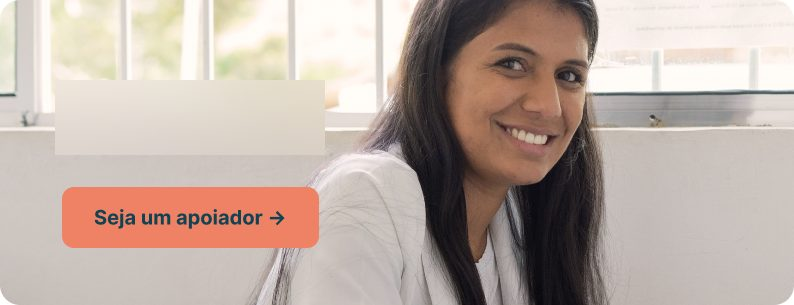
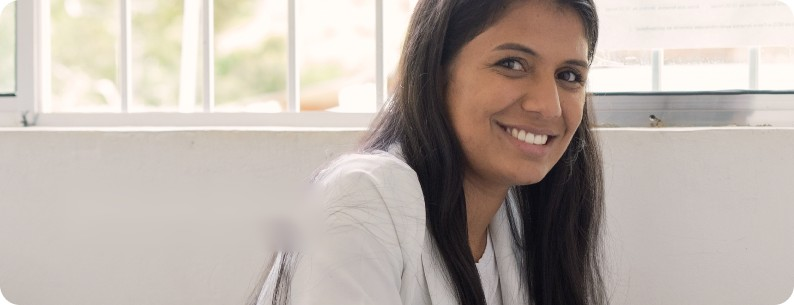
Ajustes pós-revisão da Rapha: hero, bloco Saúde Mental, CTAs, mobile
Claude-Session: https://claude.ai/code/session_01LtBMVg7AgLaCsjzrAb95ic

Changed region(s): [[0.0605, 0.5902, 0.4232, 0.8262], [0.0605, 0.2656, 0.4232, 0.3836], [0.0605, 0.4131, 0.4232, 0.4721]]

diff --git a/assets/css/site.css b/assets/css/site.css
@@ -24,7 +24,7 @@
 *{box-sizing:border-box;min-width:0}
 html{scroll-behavior:smooth;scroll-padding-top:110px}
 body{margin:0;background:#fff;color:var(--ink);font:18px/1.6 var(--font);overflow-x:clip;-webkit-font-smoothing:antialiased}
-img{max-width:100%;display:block}
+img{max-width:100%;height:auto;display:block}
 a{color:inherit}
 h1,h2,h3{font-weight:400;letter-spacing:-.01em;margin:0 0 .55em;text-wrap:balance;line-height:1.08}
 h1{font-size:clamp(40px,4.6vw,76px)}
@@ -361,3 +361,47 @@ video.anim{display:block;width:100%;height:auto}
 .pessoa .tag{position:relative;left:auto;right:auto;bottom:auto;margin:-40px 16px 16px}
 .logo-grid img{border:1px solid #e3ecf0}
 .qr .box:has(img){border:0}.qr .box img{width:100%;height:auto;image-rendering:pixelated}
+
+/* hero visual (estático, a partir do Figma) */
+.hero-visual{width:100%;height:auto;animation:heroIn .9s ease-out both}
+@keyframes heroIn{from{opacity:0;transform:translateY(16px)}to{opacity:1;transform:none}}
+@media (prefers-reduced-motion:reduce){.hero-visual{animation:none}}
+
+/* bloco Saúde Mental da home: foto sem distorção, card alinhado ao Figma */
+.btn-branco{background:#fff;color:var(--azul-dark)}
+.sm-home{align-items:start}
+.sm-home .photo img{height:auto;display:block}
+.sm-home .photo .qcard{left:11.7%;right:8.8%;top:58%;bottom:8.1%;justify-content:center}
+.sm-home .txt{align-self:stretch}
+.qcard .who img{width:clamp(48px,4.4vw,84px);height:auto;border-radius:10px;flex:none}
+.qcard q{text-align:left}
+@media (max-width:1180px){
+  .sm-home .photo .qcard{position:static;margin:-48px 6% 32px;box-shadow:0 8px 24px rgba(17,67,85,.12)}
+  .sm-home .photo{background:var(--azul-dark)}
+}
+
+/* CTA com foto: botão HTML na mesma posição do Figma (foto sem botão embutido) */
+.cta-photo{container-type:inline-size}
+.cta-photo .btn,.cta-photo .btn{left:7.8cqw;top:61.6%;bottom:auto;height:20%;min-height:0;padding:0 4cqw;font-size:clamp(13px,2.3cqw,18px);border-radius:1.2cqw;white-space:nowrap}
+
+/* linha do tempo: abaixo de 1180px vira lista vertical (ignora a coluna fixa do desktop) */
+@media(max-width:1180px){
+  .timeline{grid-template-columns:minmax(0,1fr);margin-top:48px}
+  .timeline .tl{grid-column:1!important;grid-row:auto!important;padding:0 0 32px 40px}
+  .timeline::before{left:7px;right:auto;top:0;bottom:0;width:3px;height:auto}
+  .tl::after{display:none}.tl i{left:1px;top:14px;bottom:auto;transform:none}
+  .tl b{font-size:clamp(36px,8vw,56px);margin-bottom:10px}
+}
+@media(max-width:1180px){.case-grid{grid-template-columns:repeat(2,minmax(0,1fr))!important}}
+@media(max-width:560px){.case-grid{grid-template-columns:minmax(0,1fr)!important}}
+@media(max-width:1180px){
+  .sm-home .photo img{aspect-ratio:1057/548;object-fit:cover;object-position:top;height:auto}
+  .sm-home .photo .qcard{margin-top:-32px}
+}
+@media(max-width:560px){
+  .conselho-grid,.pessoas{grid-template-columns:minmax(0,1fr)}
+  .conselho-grid .pessoa img{max-height:420px;width:100%;object-fit:cover;object-position:top}
+}
+.sm-home .photo .qcard{left:10.8%;right:8%;top:56.6%;bottom:6.6%;z-index:1}
+@media(max-width:1180px){.sm-home .photo .qcard{position:relative;left:auto;right:auto;top:auto;bottom:auto}}
+.qcard .who img{flex:0 0 clamp(52px,4.4vw,84px);width:clamp(52px,4.4vw,84px);height:clamp(52px,4.4vw,84px);object-fit:cover}

diff --git a/index.html b/index.html
@@ -36,7 +36,7 @@
       <div class="stat"><b>4x</b><span>mais chances de realizar exames preventivos</span></div>
     </div>
   </div>
-  <video class="anim" autoplay muted loop playsinline preload="metadata" poster="assets/img/fig/home-hero-visual.jpg" width="934" height="850" aria-label="Animação: ficha de Maria Aparecida e profissional de saúde usando o Portal Impulso"><source src="assets/video/home-hero.mp4" type="video/mp4"></video>
+  <img class="hero-visual" src="assets/img/fig/home-hero-visual-full.jpg" alt="Profissional de saúde segurando o celular com mensagem da Secretaria de Saúde para Maria Aparecida, com as linhas de cuidado: hipertensão, diabetes, gestantes e puérperas, prevenção do câncer e desenvolvimento infantil" width="777" height="700" fetchpriority="high">
 </div></section>
 
 <section class="band bg-fundo desafio"><div class="wrap split">
@@ -100,13 +100,13 @@
   <div class="photo">
     <img src="assets/img/fig/home-sm-foto.jpg" alt="Profissional de saúde abraçando uma senhora em Aracaju" width="1057" height="945">
     <div class="qcard"><q>É muito bom ter a capacidade de fazer uma escuta qualificada para que a pessoa tenha uma melhoria na qualidade de vida</q>
-      <div class="who"><span><b>Larissa Brito</b>, profissional do SUS qualificada pelo programa de Saúde Mental na Atenção Primária em Aracaju (SE)</span></div></div>
+      <div class="who"><img src="assets/img/fig/larissa-avatar.png" alt="" width="84" height="84"><span><b>Larissa Brito</b>, profissional do SUS qualificada pelo programa de Saúde Mental na Atenção Primária em Aracaju (SE)</span></div></div>
   </div>
   <div class="txt">
     <span class="small-label">Saúde mental na atenção primária</span>
     <h2>Qualificando o cuidado.</h2>
-    <p>Apoiamos municípios a integrarem o cuidado psicossocial à rotina das equipes de saúde, com metodologia, dados e suporte técnico.</p>
-    <div><a class="btn btn-claro" href="saude-mental.html">Saiba mais</a></div>
+    <p>Apoiamos municípios a integrarem o cuidado psicossocial à rotina das equipes de saúde, com metodologia, dados e suporte técnico. O serviço é do município. A ImpulsoGov ajuda a fazer acontecer.</p>
+    <div><a class="btn btn-branco" href="saude-mental.html">Saiba mais</a></div>
     <img src="assets/img/fig/home-sm-formas.png" alt="" style="margin-top:60px;max-width:420px">
   </div>
 </div></section>
@@ -146,7 +146,7 @@
   </div>
   <div>
     <div class="cta-photo"><img src="assets/img/fig/cta-municipio.jpg" alt="Gestores de saúde em reunião de trabalho" loading="lazy"><a class="btn btn-azul" href="mailto:contato@impulsogov.org?subject=Quero%20ser%20munic%C3%ADpio%20parceiro">Seja um município parceiro</a></div>
-    <div class="cta-photo"><img src="assets/img/fig/cta-apoiador.jpg" alt="Profissional de saúde sorrindo" loading="lazy"><a class="btn btn-laranja" href="apoie.html">Apoie nosso trabalho</a></div>
+    <div class="cta-photo"><img src="assets/img/fig/cta-apoiador.jpg" alt="Profissional de saúde sorrindo" loading="lazy"><a class="btn btn-laranja" href="apoie.html">Seja um apoiador</a></div>
   </div>
 </div></section>
 

diff --git a/transparencia.html b/transparencia.html
@@ -60,7 +60,6 @@
     <div><h3>Estatuto da ImpulsoGov</h3><ul><li><a href="https://www.impulsogov.org/s/Estatuto-Social-e-Ata-de-Assembleia-Geral-Extraordinaria.pdf">Baixar</a></li></ul></div>
     <div><h3>Código de Ética</h3><ul><li><a href="https://media.graphassets.com/IzNqnMBGSSmxGqPS3TYr">Baixar</a></li></ul></div>
   </div>
-  <p style="margin-top:32px"><span class="todo">PDFs ainda hospedados no Squarespace/GraphCMS: copiar para o novo site antes de desligar o antigo. DF 2023 não auditada não está no site atual.</span></p>
 
   <div class="center" style="margin-top:120px"><span class="label c-azul">Quem já apoiou nosso trabalho</span><h2>Transparência também significa reconhecer<br>quem tornou tudo isso possível.</h2></div>
   <div class="logo-grid" style="margin-top:56px">
@@ -116,7 +115,7 @@
   </div>
   <div>
     <div class="cta-photo"><img src="assets/img/fig/cta-municipio.jpg" alt="Gestores de saúde em reunião de trabalho" loading="lazy"><a class="btn btn-azul" href="mailto:contato@impulsogov.org?subject=Quero%20ser%20munic%C3%ADpio%20parceiro">Seja um município parceiro</a></div>
-    <div class="cta-photo"><img src="assets/img/fig/cta-apoiador.jpg" alt="Profissional de saúde sorrindo" loading="lazy"><a class="btn btn-laranja" href="apoie.html">Apoie nosso trabalho</a></div>
+    <div class="cta-photo"><img src="assets/img/fig/cta-apoiador.jpg" alt="Profissional de saúde sorrindo" loading="lazy"><a class="btn btn-laranja" href="apoie.html">Seja um apoiador</a></div>
   </div>
 </div></section>
 

diff --git a/portal-impulso.html b/portal-impulso.html
@@ -125,7 +125,7 @@
   </div>
   <div>
     <div class="cta-photo"><img src="assets/img/fig/cta-municipio.jpg" alt="Gestores de saúde em reunião de trabalho" loading="lazy"><a class="btn btn-azul" href="mailto:contato@impulsogov.org?subject=Quero%20ser%20munic%C3%ADpio%20parceiro">Seja um município parceiro</a></div>
-    <div class="cta-photo"><img src="assets/img/fig/cta-apoiador.jpg" alt="Profissional de saúde sorrindo" loading="lazy"><a class="btn btn-laranja" href="apoie.html">Apoie nosso trabalho</a></div>
+    <div class="cta-photo"><img src="assets/img/fig/cta-apoiador.jpg" alt="Profissional de saúde sorrindo" loading="lazy"><a class="btn btn-laranja" href="apoie.html">Seja um apoiador</a></div>
   </div>
 </div></section>
 

diff --git a/saude-mental.html b/saude-mental.html
@@ -83,7 +83,7 @@
   </div>
   <div>
     <div class="cta-photo"><img src="assets/img/fig/cta-municipio.jpg" alt="Gestores de saúde em reunião de trabalho" loading="lazy"><a class="btn btn-azul" href="mailto:contato@impulsogov.org?subject=Quero%20ser%20munic%C3%ADpio%20parceiro">Seja um município parceiro</a></div>
-    <div class="cta-photo"><img src="assets/img/fig/cta-apoiador.jpg" alt="Profissional de saúde sorrindo" loading="lazy"><a class="btn btn-laranja" href="apoie.html">Apoie nosso trabalho</a></div>
+    <div class="cta-photo"><img src="assets/img/fig/cta-apoiador.jpg" alt="Profissional de saúde sorrindo" loading="lazy"><a class="btn btn-laranja" href="apoie.html">Seja um apoiador</a></div>
   </div>
 </div></section>
 
